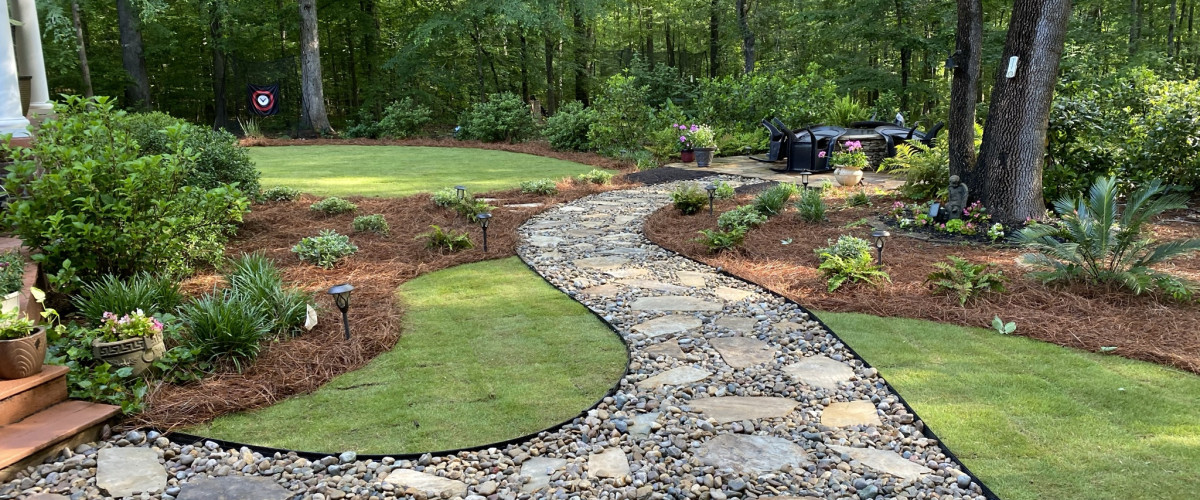
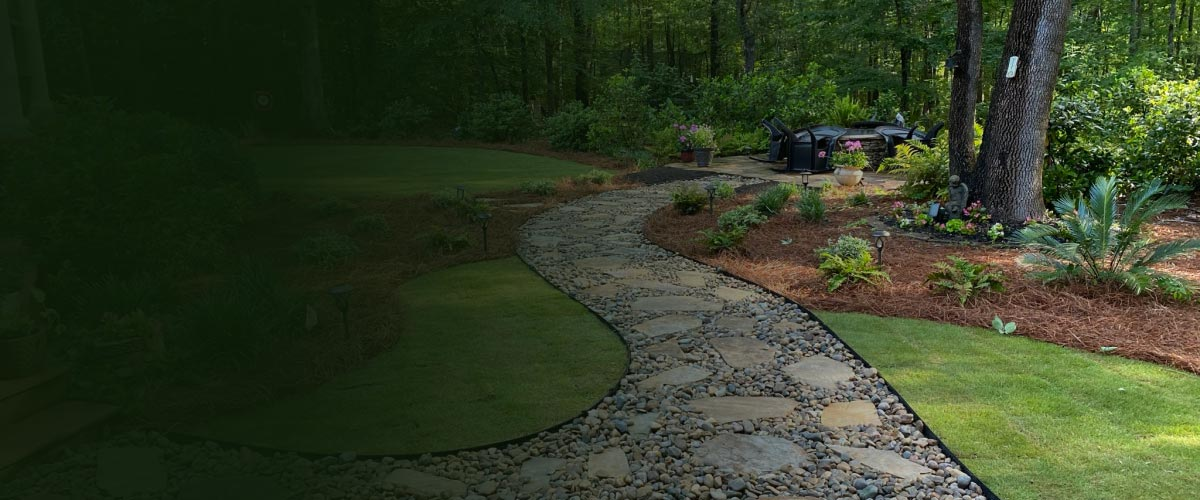
updated hero opacity

diff --git a/index.html b/index.html
@@ -89,7 +89,7 @@
         <div class="service-icon" aria-hidden="true">
           <svg viewBox="0 0 24 24"><path d="M12 2C8 8 6 11 6 14a6 6 0 0 0 12 0c0-3-2-6-6-12z"/><path d="M6 14h12"/></svg>
         </div>
-        <h3 class="service-name">Irrigation Design &amp; Repair</h3>
+        <h3 class="service-name">Irrigation Design, Installation, &amp; Repair</h3>
         <p class="service-desc">Stop watering your driveway. We design and install systems that deliver water where it belongs.</p>
         <span class="service-link">Learn more <span class="service-arrow" aria-hidden="true">→</span></span>
       </a>

diff --git a/styles/main.css b/styles/main.css
@@ -243,7 +243,7 @@ footer {
   position: absolute;
   inset: 0;
   background: url('../images/hero-bg.jpg') center / cover no-repeat;
-  opacity: 0.1;
+  opacity: 0.75;
 }
 .hero::after {
   content: '';